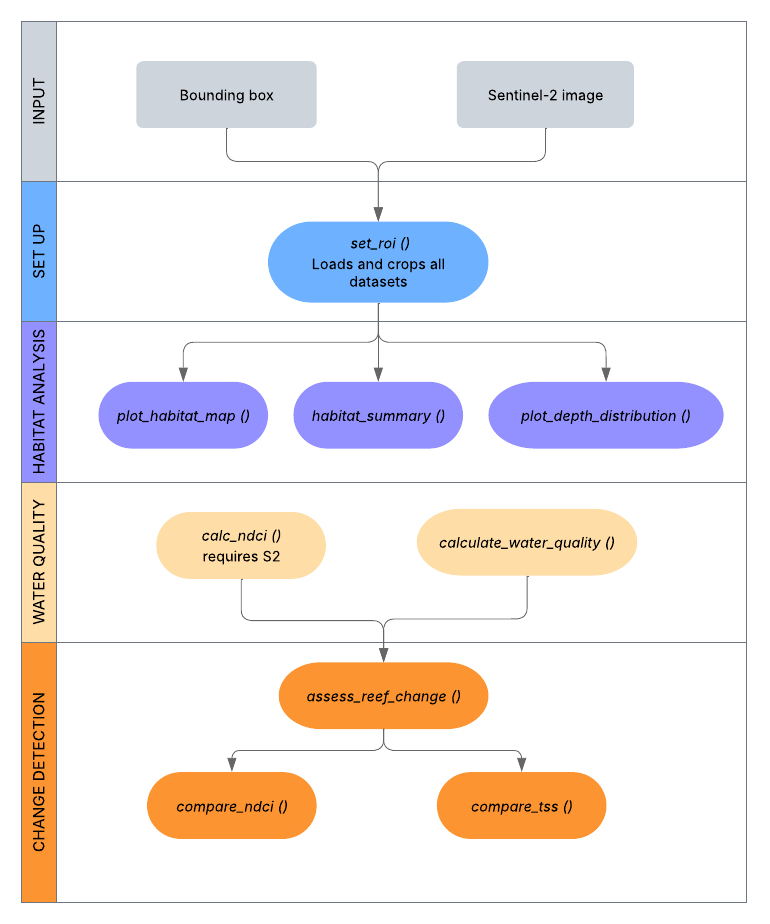
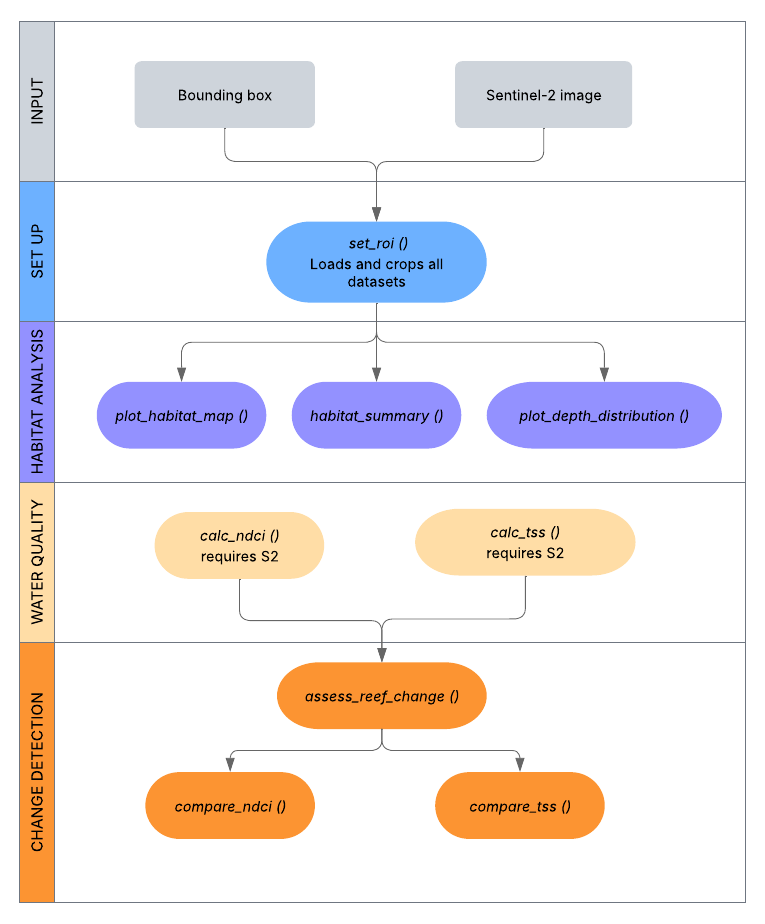
docs: update workflow diagram

diff --git a/docs/articles/getting-started.html b/docs/articles/getting-started.html
@@ -301,13 +301,12 @@ eutrophication or algal bloom</li>
 <div class="section level3">
 <h3 id="total-suspended-sediments-tss">Total Suspended Sediments (TSS)<a class="anchor" aria-label="anchor" href="#total-suspended-sediments-tss"></a>
 </h3>
-<p><code><a href="../reference/calculate_water_quality.html">calculate_water_quality()</a></code> estimates Total Suspended
-Sediments (TSS) in g/m³ from Sentinel-2 bands B3 (green), B4 (red), and
-B8 (NIR). TSS is a key indicator of water turbidity affecting light
-availability for corals and seagrass and can cause physical smothering
-of reef communities.</p>
+<p><code><a href="../reference/calc_tss.html">calc_tss()</a></code> estimates Total Suspended Sediments (TSS) in
+g/m³ from Sentinel-2 bands B3 (green), B4 (red), and B8 (NIR). TSS is a
+key indicator of water turbidity affecting light availability for corals
+and seagrass and can cause physical smothering of reef communities.</p>
 <div class="sourceCode" id="cb7"><pre class="downlit sourceCode r">
-<code class="sourceCode R"><span><span class="va">tss</span> <span class="op">&lt;-</span> <span class="fu"><a href="../reference/calculate_water_quality.html">calculate_water_quality</a></span><span class="op">(</span><span class="va">s2</span><span class="op">)</span></span></code></pre></div>
+<code class="sourceCode R"><span><span class="va">tss</span> <span class="op">&lt;-</span> <span class="fu"><a href="../reference/calc_tss.html">calc_tss</a></span><span class="op">(</span><span class="va">s2</span><span class="op">)</span></span></code></pre></div>
 <p><img src="figures/tss.png" alt="TSS map" width="750" style="border: 1px solid #ddd; border-radius: 6px; padding: 4px;"></p>
 <hr>
 </div>
@@ -346,8 +345,8 @@ dredging activity, or intensified terrestrial runoff.
 <code><a href="../reference/compare_tss_change.html">compare_tss_change()</a></code> classifies the change using a
 threshold of ±0.5 g/m³ by default.</p>
 <div class="sourceCode" id="cb9"><pre class="downlit sourceCode r">
-<code class="sourceCode R"><span><span class="va">tss_24</span> <span class="op">&lt;-</span> <span class="fu"><a href="../reference/calculate_water_quality.html">calculate_water_quality</a></span><span class="op">(</span><span class="va">s2_24</span><span class="op">)</span></span>
-<span><span class="va">tss_25</span> <span class="op">&lt;-</span> <span class="fu"><a href="../reference/calculate_water_quality.html">calculate_water_quality</a></span><span class="op">(</span><span class="va">s2_25</span><span class="op">)</span></span>
+<code class="sourceCode R"><span><span class="va">tss_24</span> <span class="op">&lt;-</span> <span class="fu"><a href="../reference/calc_tss.html">calc_tss</a></span><span class="op">(</span><span class="va">s2_24</span><span class="op">)</span></span>
+<span><span class="va">tss_25</span> <span class="op">&lt;-</span> <span class="fu"><a href="../reference/calc_tss.html">calc_tss</a></span><span class="op">(</span><span class="va">s2_25</span><span class="op">)</span></span>
 <span></span>
 <span><span class="va">change_tss</span> <span class="op">&lt;-</span> <span class="fu"><a href="../reference/assess_reef_change.html">assess_reef_change</a></span><span class="op">(</span><span class="va">tss_24</span>, <span class="va">tss_25</span><span class="op">)</span></span>
 <span><span class="fu"><a href="../reference/compare_tss_change.html">compare_tss_change</a></span><span class="op">(</span><span class="va">change_tss</span><span class="op">)</span></span></code></pre></div>

diff --git a/docs/extra.css b/docs/extra.css
@@ -27,7 +27,7 @@ body {
 }
 /* Workflow diagram size */
 .contents img[alt="ReefMappeR workflow"] {
-  max-width: 50px;
+  max-width: 250px;
 }
 /* Example habitat map - left aligned with border */
 .contents img[alt*="Example habitat map"] {
